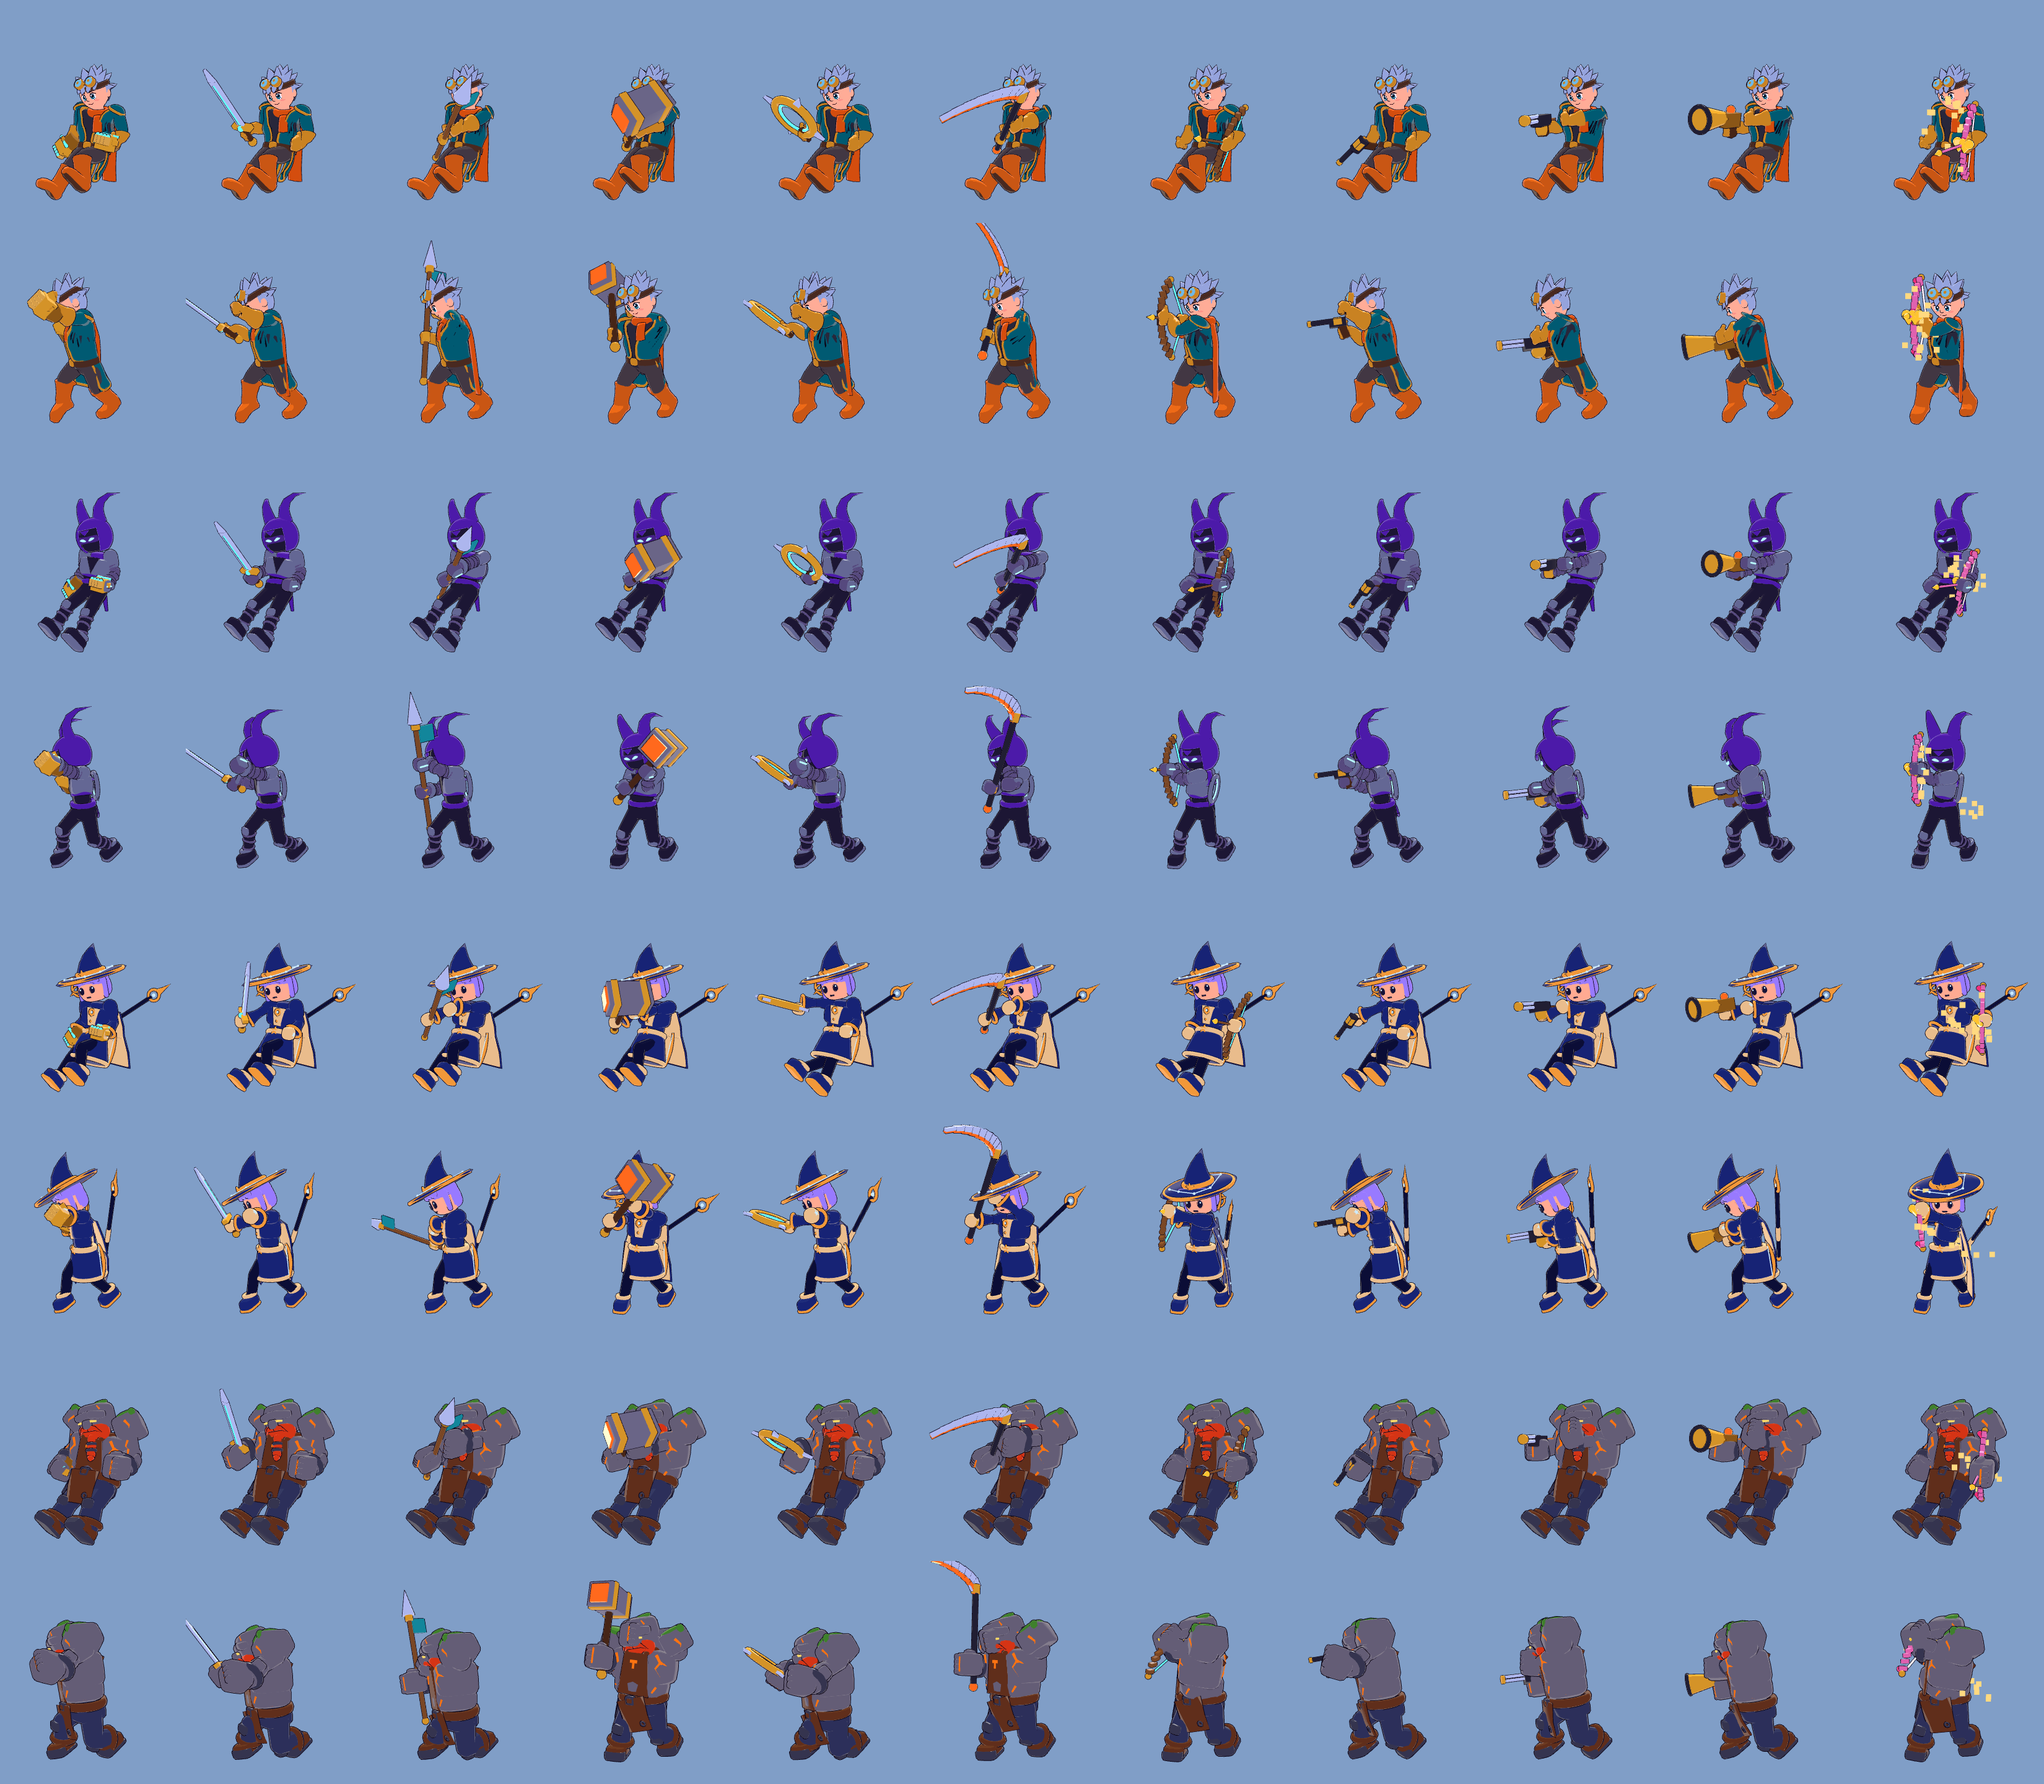
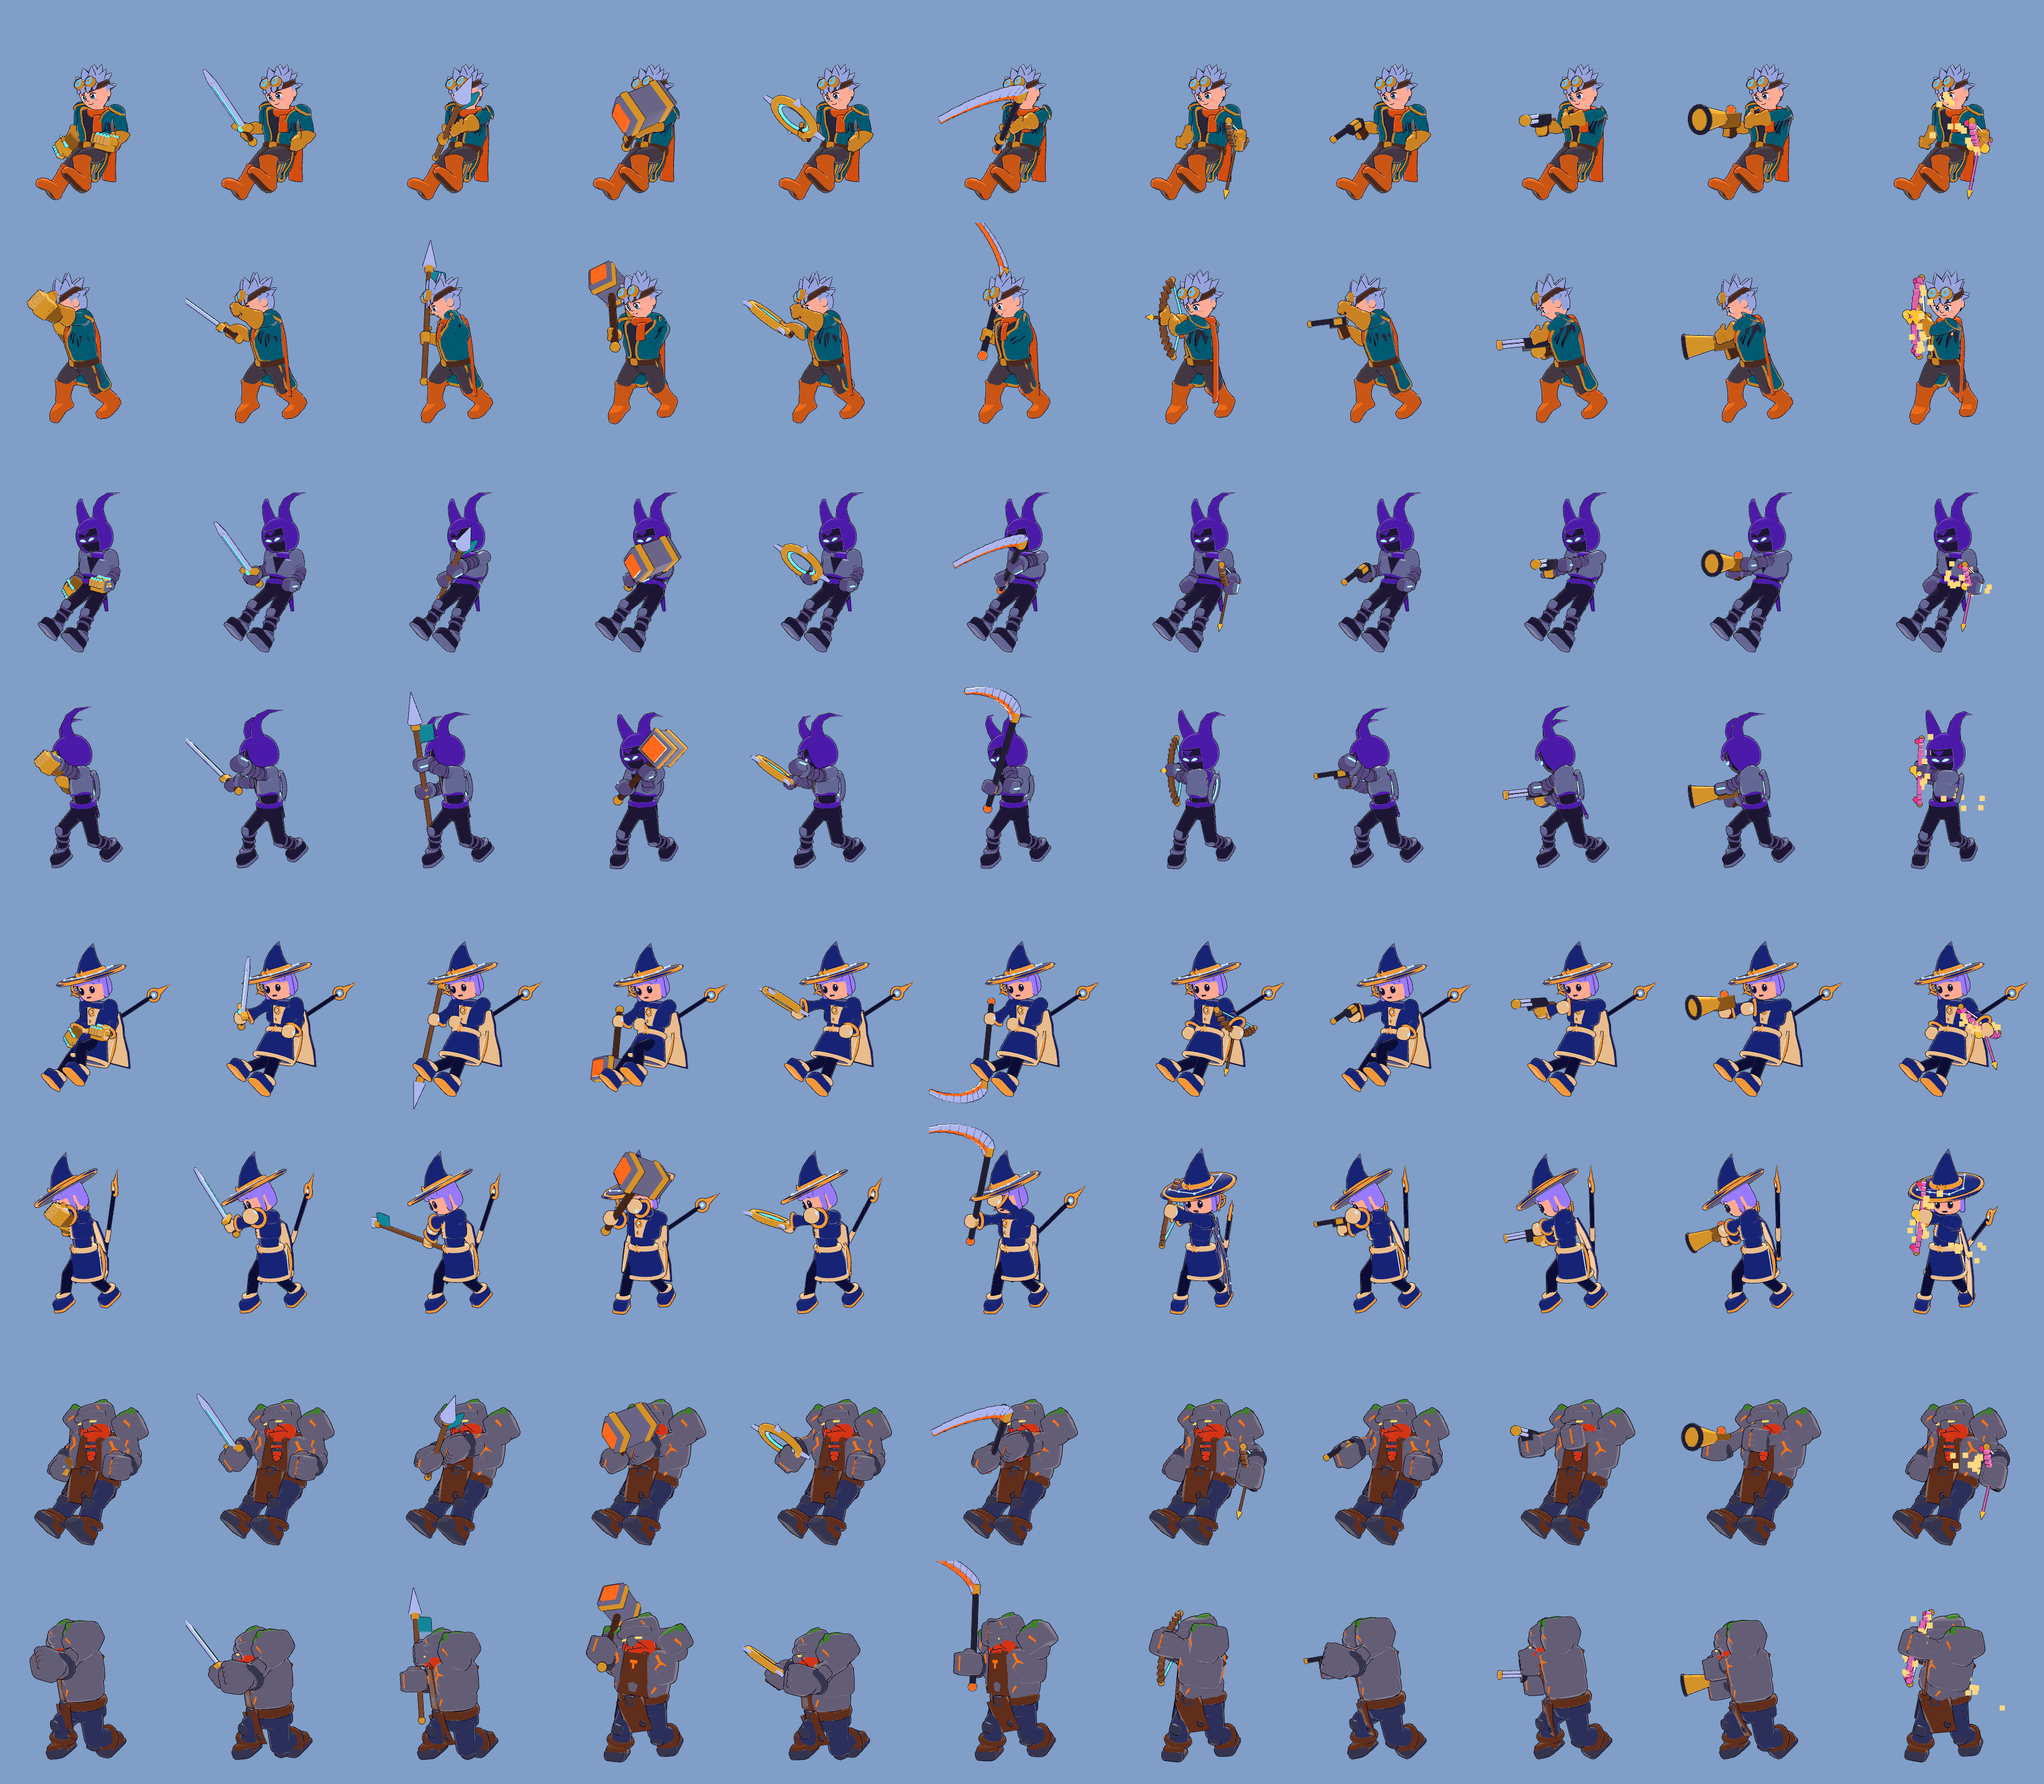
Weapon tail: clear again after the pop guard, pistol low ready, bow at rest after the shot
- a final clearance pass after the pop guard's twist and turn limits
- pistols hold low ready between shots and in reactions
- the bow string goes back to rest in the shot's recovery; wider anchor gap
- hit reactions keep 85% of the hold
- island rim squares are their own surface of the Islands mesh
- visual QA ground check follows the harness rule: a run may lift both feet, never sink
- weapons bot-match test uses seed 4 (seed 3 now picks up only two weapons)
- re-rendered weapon-holds sheet and bow close-ups

Claude-Session: https://claude.ai/code/session_01WbnN9g1D3X3XFB8ritonRs

diff --git a/TODO.md b/TODO.md
@@ -151,7 +151,7 @@ T-113–T-115 and T-D01b: camera and movement ≥ 4/5, then re-run the playteste
 
 ## Done
 
-- [desktop] T-D30 (partial): weapon grips/scale per hand, hold-class arm IK for all 4 legends, bow draw string, body-clearance solver, geometric visual-QA suite (`tests/qa`). QA still fails: weapon/bow/ground violations remain (see PR); follow-up needed.
+- [desktop] T-D30 (partial; T-D30c on PR #70): weapon grips/scale per hand, hold-class arm IK, bow draw string, body-clearance solver, geometric visual-QA suite (`tests/qa`); T-D30c: core-body fighter-vs-fighter rule, view-side body separation, FFA spawns, pushboxes from measured core bodies, weapons let go when down, per-build holds, island rim drawn from the sim grid. QA still not 0: a long tail of weapon_vs_holder (mostly Lyra) plus a few bow/ground/body frames (see PR #70).
 - T-D29 [desktop] Pushboxes: per-fighter capsule bodies from `FighterStats` (radius, height, mass; Brann 2.5, Lyra 0.8) resolved in index order after movement, mass-weighted, planar on the floor, wall-aware, swept so rushes and flight never tunnel; closing speed stops at contact; vanish, KO on the floor, a grab pair and Lyra's Star-Step pass through; hit/block pushback that moves the attacker when the defender is pinned; strafe orbit capped at 180 deg/s (matches the camera turn cap) so point-blank never outruns the camera; `FighterView` fades a body pressed against the camera. Follow-ups: strike/guard clips lean heads together at contact (CharacterView could ease the lean when an opponent is touching); both fighters circling opposite ways still hides the opponent in up to ~5% of frames (owner: lower `max_orbit_turn_speed`?).
 - T-D15 [desktop] Rollback core + Duo online prototype: `CombatSim.snapshot()`/
   `restore()` (reflection deep copy, `SimSnapshot`), compact `InputCodec` (8-18 B),
